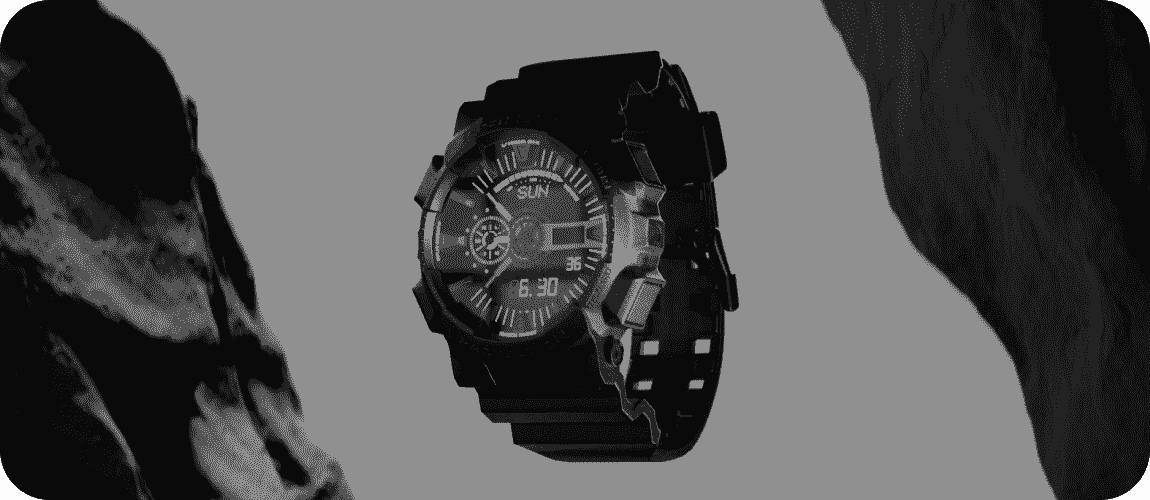
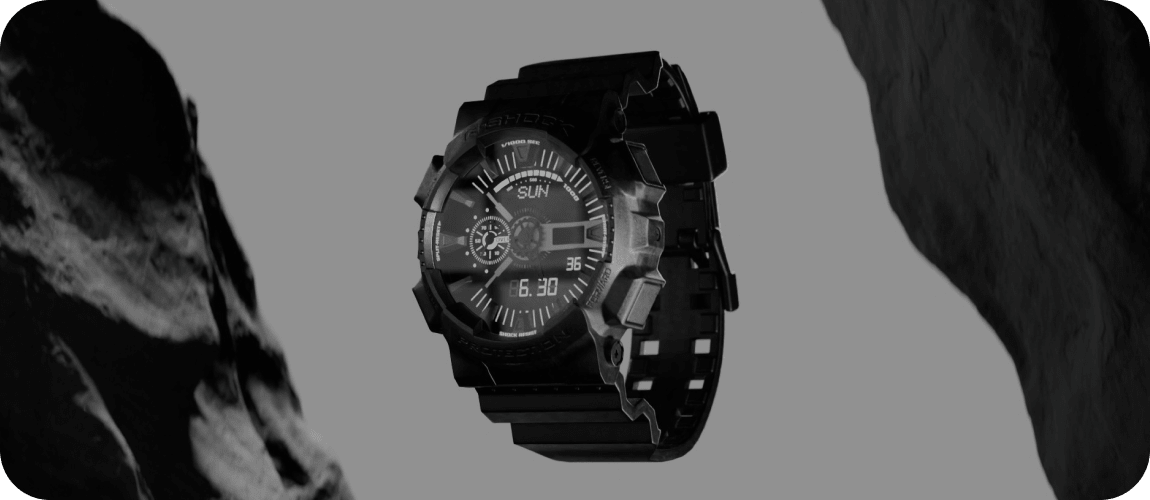
поправила розміщення стилів і розмітки, додала айдішник, замінила зображення на більш якісне

diff --git a/src/partials/hero.html b/src/partials/hero.html
@@ -16,7 +16,9 @@
                     media="(min-width: 375px)">
                 <img src="/img/hero/hero-people-phone.png" alt="people">
             </picture>
-            <button class="hero-btn-scroll" type="button">Scroll down</button>
+            <button class="hero-btn-scroll" type="button"><a href="#footer" class="link-for-footer"></a>
+                Scroll down
+            </button>
         </div>
     </div>
         <picture>
@@ -25,6 +27,5 @@
             <source srcset="/img/hero/watch-hero-phone.png 1x, /img/hero/watch-hero-phone@2x.png 2x" media="(min-width: 375px)">
             <img src="/img/hero/watch-hero-phone.png" alt="watch">
         </picture>
-        </div>        
-
+    </div>        
 </section>

diff --git a/src/css/hero.css b/src/css/hero.css
@@ -69,6 +69,10 @@
         display: flex;
         justify-content: space-between;
     }
+    .hero-first-box {
+        margin-bottom: 40px;
+        width: 100%;
+    }  
     .hero-second-box {
         flex-direction: column;
         margin-bottom: 40px;
@@ -86,10 +90,7 @@
         letter-spacing: -0.02em;
         width: 480px;
     }
-    .hero-first-box {
-        margin-bottom: 40px;
-        width: 100%;
-    }
+
 }
 
 /* Desktop hero */
@@ -98,8 +99,6 @@
     .hero-main-title {
         font-size: 72px;
         line-height: 0.875;
-    }
-    .hero-main-title { 
         width: 70%;
     }
 }
